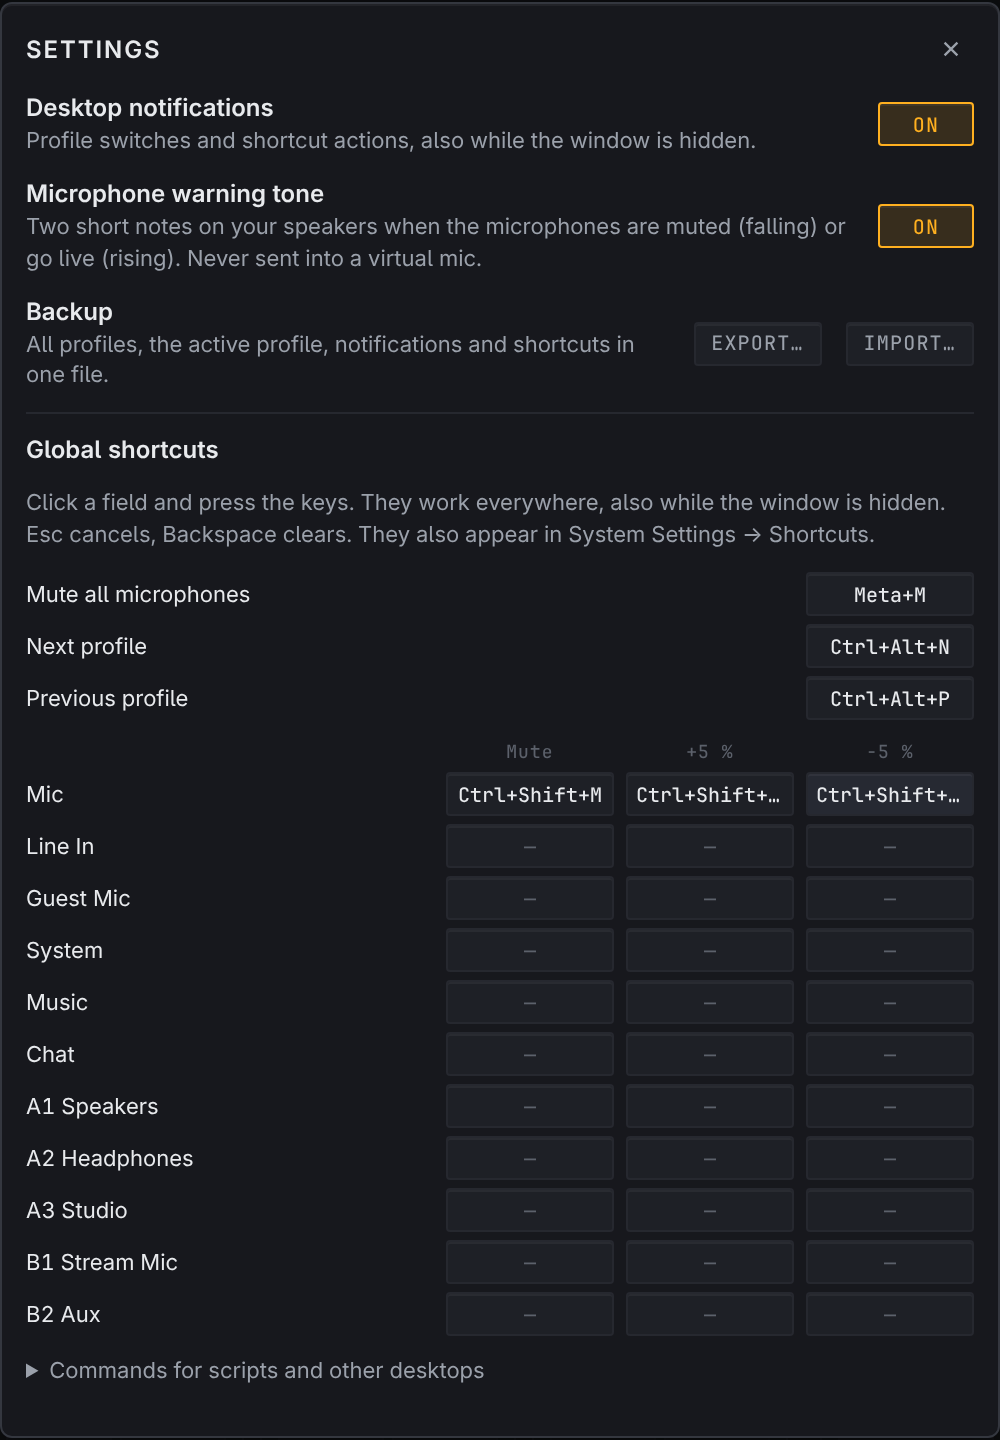
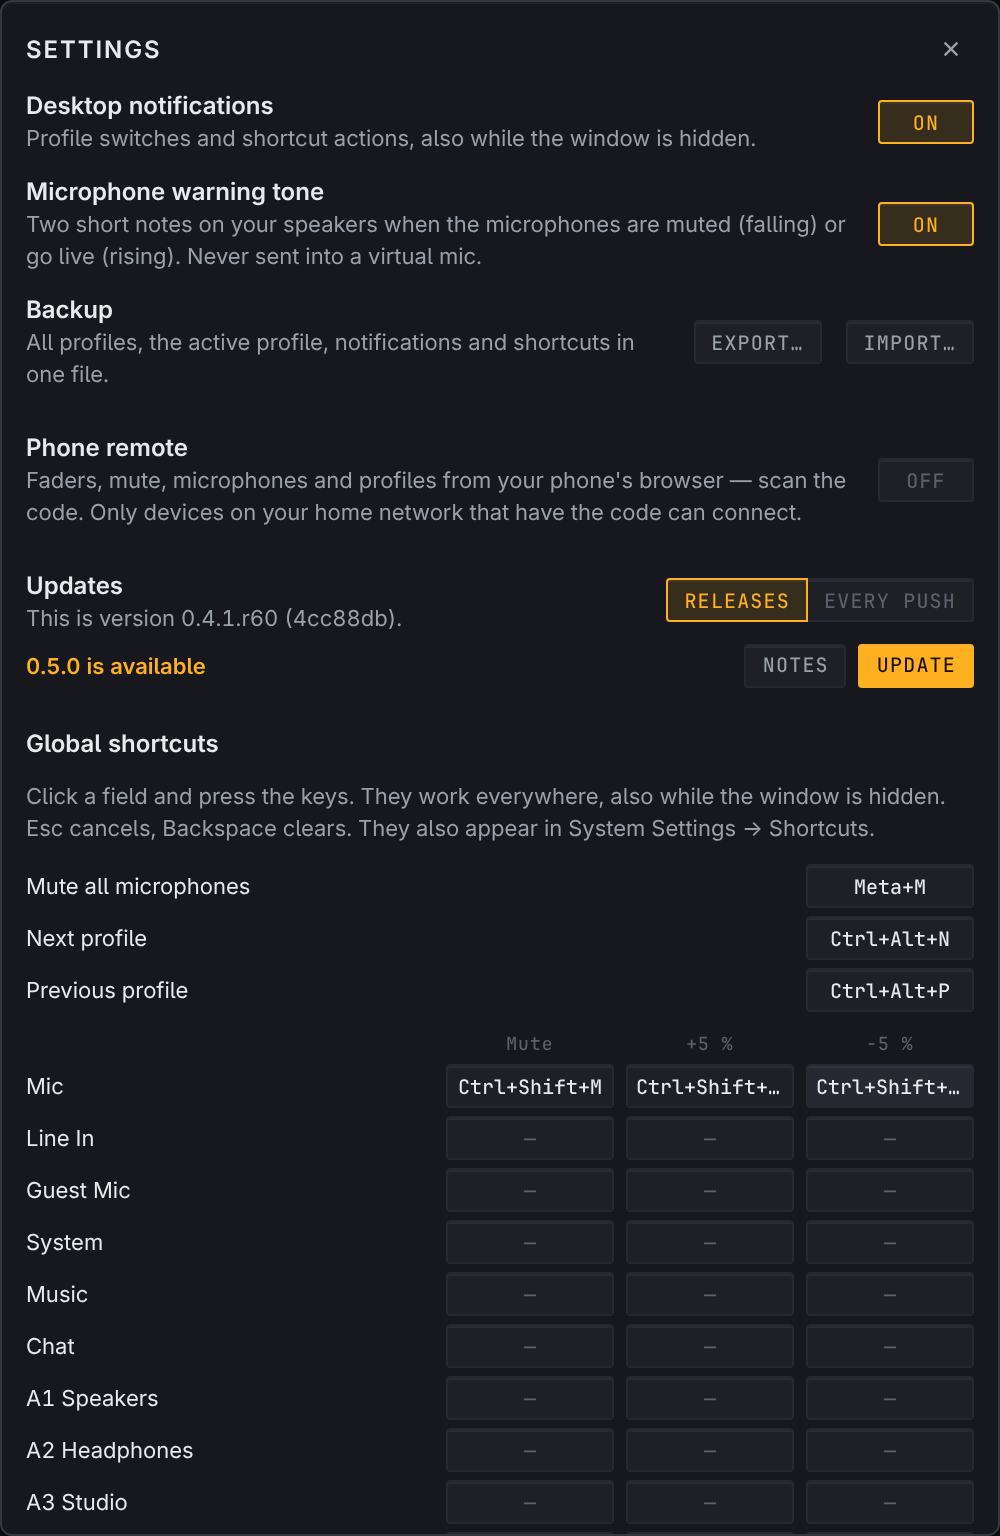
0.5.0: phone remote and in-app updater; docs, screenshots, notes
Claude-Session: https://claude.ai/code/session_01AJUxLsgYgFB4otw3AJgsAm

diff --git a/src-tauri/src/remote.html b/src-tauri/src/remote.html
@@ -36,9 +36,12 @@
   .db { font: 500 13px var(--mono); color: var(--text-2); min-width: 52px; text-align: right; }
   .mute { width: 52px; height: 40px; border-radius: 8px; border: 1px solid var(--border-1); background: var(--bg-3); color: var(--text-2); font: 700 13px var(--mono); }
   .mute.on { background: var(--mute); border-color: var(--mute); color: #fff; }
-  .meter { height: 6px; background: var(--bg-0); border-radius: 3px; margin: 8px 0 0; overflow: hidden; }
-  .meter > div { height: 100%; width: 100%; transform-origin: left; transform: scaleX(0);
-                 background: linear-gradient(90deg, var(--green) 0 70%, var(--amber) 70% 86%, var(--red) 86%); transition: transform 90ms linear; }
+  /* The colour zones stay put (-60..+6 dBFS: amber from -18, red from -6);
+     a dark cover shrinking to the right reveals them up to the level. */
+  .meter { height: 6px; border-radius: 3px; margin: 8px 0 0; overflow: hidden;
+           background: linear-gradient(90deg, var(--green) 0 63.6%, var(--amber) 63.6% 81.8%, var(--red) 81.8%); }
+  .meter > div { height: 100%; width: 102%; margin-left: -1%; background: var(--bg-0); transform-origin: right; transform: scaleX(1);
+                 transition: transform 90ms linear; }
   input[type=range] { width: 100%; height: 44px; margin: 0; background: transparent; -webkit-appearance: none; appearance: none; touch-action: none; }
   input[type=range]::-webkit-slider-runnable-track { height: 6px; background: var(--bg-4); border-radius: 3px; }
   input[type=range]::-moz-range-track { height: 6px; background: var(--bg-4); border-radius: 3px; }
@@ -166,8 +169,8 @@ function render() {
 
 function meters(m) {
   if (!state) return;
-  state.strips.forEach((s, i) => { const r = rows.get("s:" + s.id); if (r) r.meter.style.transform = `scaleX(${meterFrac(m.strips[i] ?? -90)})`; });
-  state.buses.forEach((x, i) => { const r = rows.get("b:" + x.id); if (r) r.meter.style.transform = `scaleX(${meterFrac(m.buses[i] ?? -90)})`; });
+  state.strips.forEach((s, i) => { const r = rows.get("s:" + s.id); if (r) r.meter.style.transform = `scaleX(${1 - meterFrac(m.strips[i] ?? -90)})`; });
+  state.buses.forEach((x, i) => { const r = rows.get("b:" + x.id); if (r) r.meter.style.transform = `scaleX(${1 - meterFrac(m.buses[i] ?? -90)})`; });
 }
 
 $("mics").addEventListener("click", () => {

diff --git a/CLAUDE.md b/CLAUDE.md
@@ -248,6 +248,20 @@ written atomically). Backups (`backup.rs`, `ctl export|import`, Settings panel) 
 every profile, the active one and `app.toml`; the engine writes imported profiles itself
 (`ImportProfiles`) so its autosave cannot race the import.
 
+The phone remote (`remote.rs` + `remote.html`, axum on port 8723) is off by default.
+Requests need the key from `app.toml` (in the QR code's URL) and a local source address
+(`is_local`). One WebSocket per phone: the pump publishes every `State` and every third
+`MeterFrame`; `SetGain` from a phone is followed by `RequestState` (throttled) so the
+window follows. Meters stay enabled while a phone is connected (`apply_meters`).
+
+The updater (`updater.rs`) reads GitHub releases: "stable" compares the latest release
+tag with `LM_BUILD_VERSION`, "edge" compares the commit in `linuxmeeter-edge-<arch|debian>.sha`
+with `LM_BUILD_SHA` (both set by `src-tauri/build.rs` from CI env or git). It downloads
+the platform's package, checks GitHub's sha256 `digest`, installs with `pkexec`, and
+restarts via `--replace <pid>` (the new process waits for the old one and its devices).
+CI publishes every push to main to the rolling `edge` pre-release with package version
+`<pkgver>.r<commit count>`; a new `pkgver` also makes a numbered release.
+
 `src-tauri/src/control.rs` serves `$XDG_RUNTIME_DIR/linuxmeeter.sock`;
 `linuxmeeter ctl …` sends one JSON line and prints the reply (it never starts
 GTK). A second plain launch just sends `show`. `NudgeGain` / `ToggleMute`

diff --git a/packaging/release/NOTES.md b/packaging/release/NOTES.md
@@ -1,5 +1,10 @@
 Fork of [dslapelis/linuxmeeter](https://github.com/dslapelis/linuxmeeter).
 
+## New in 0.5.0
+
+- **Phone remote**: Settings → Phone remote → scan the QR code. Your phone's browser becomes a remote: faders, mute, "microphones live/muted" and profiles for every strip and bus, with live level meters. No app needed. Only devices on your home network that scanned the code (it contains a random key) can connect; "New code" locks out every phone that had the old one.
+- **Updates from inside the app**: Settings → Updates shows your version, checks GitHub, and installs with one click (Arch and Debian; asks for your password, then restarts linuxmeeter). Choose *Releases* or *Every push* — the latter follows every change pushed to main as soon as it is built.
+
 ## New in 0.4.1
 
 - **Fix: the microphone warning tone did not play** on real hardware. The tone's stream was closed after a fixed 0.8 s — before a sound card waking from standby (or a Bluetooth headset) was ready. It now stays until the tone has actually played.
@@ -21,10 +26,10 @@ Add/remove strips and buses (up to 16 strips, A1–A4, B1–B3), devices visible
 
 **Arch Linux**
 
-    sudo pacman -U linuxmeeter-0.4.1-1-x86_64.pkg.tar.zst
+    sudo pacman -U linuxmeeter-*-x86_64.pkg.tar.zst
 
 **Debian 13 (trixie)**
 
-    sudo apt install ./linuxmeeter_0.4.1_amd64.deb
+    sudo apt install ./linuxmeeter_*_amd64.deb
 
 Both pull in PipeWire, WirePlumber, `lsp-plugins-lv2` and the WebKitGTK / tray libraries.

diff --git a/README.md b/README.md
@@ -86,6 +86,16 @@ from source (below).
   they work everywhere, also with the window hidden, and show up in System
   Settings → Shortcuts. On other desktops, bind the `linuxmeeter ctl …`
   commands Settings lists to keys in the desktop's own shortcut settings
+- **Phone remote** — Settings → Phone remote, scan the QR code: your phone's
+  browser controls every fader, mute, the microphones and the profile, with
+  live meters. No app; only devices on your network with the code's key
+  connect
+
+  <img src="docs/screenshot-phone.png" alt="Phone remote" width="300">
+
+- **Updates in the app** — Settings → Updates checks GitHub and installs the
+  new version with one click (Arch and Debian; password prompt, then a
+  restart). Follow the releases, or every push to main
 - **Microphone warning tone** — two short notes on your speakers when the
   microphones are muted (falling) or go live (rising), however you did it;
   played straight to the hardware, never into a virtual mic (can be turned off)
